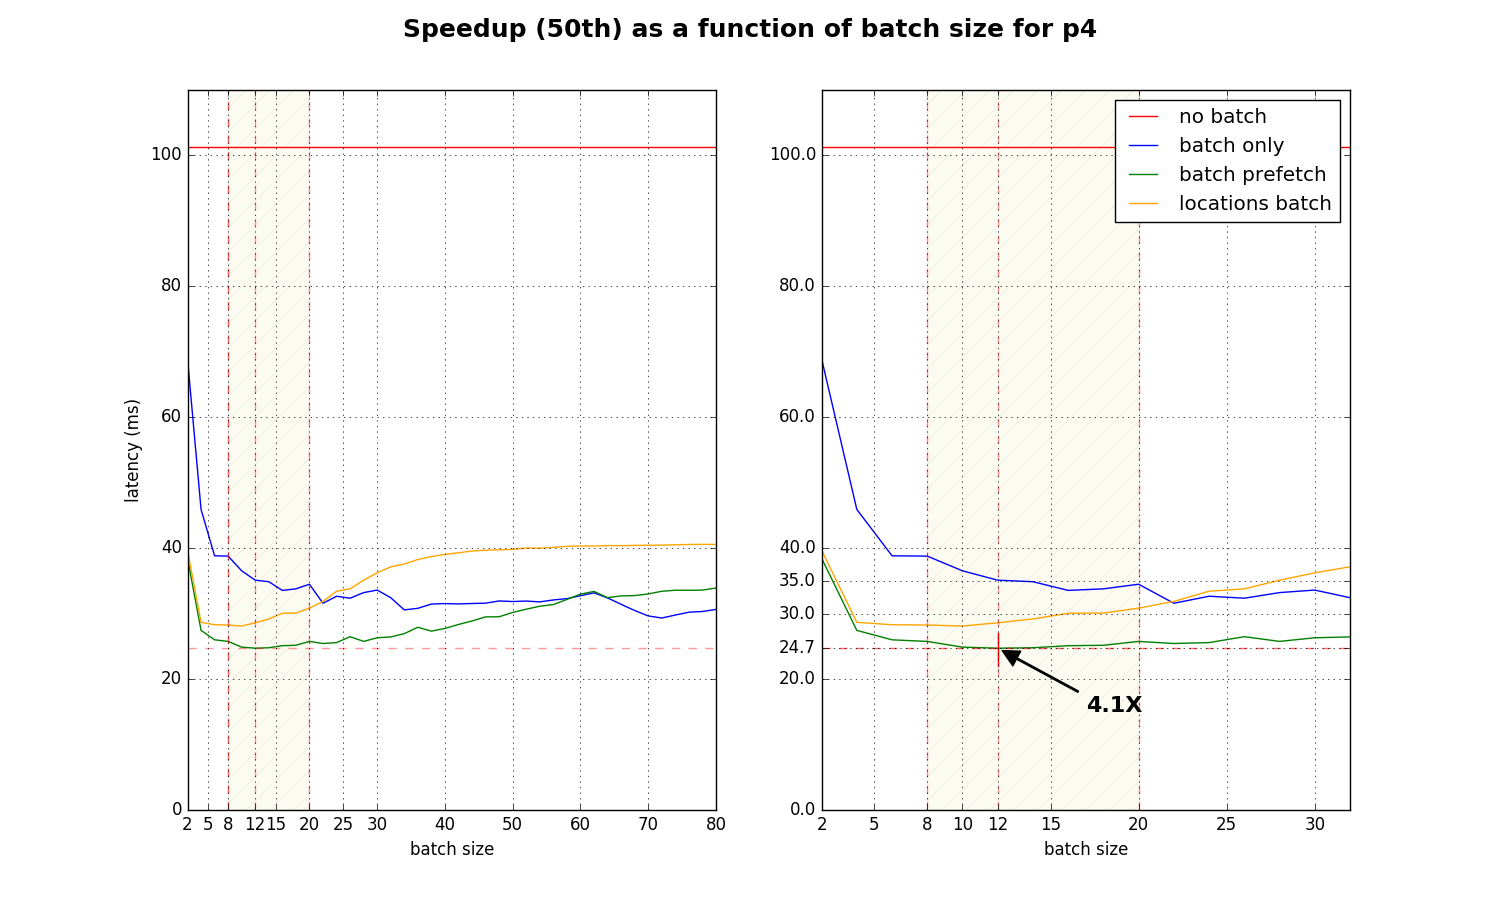
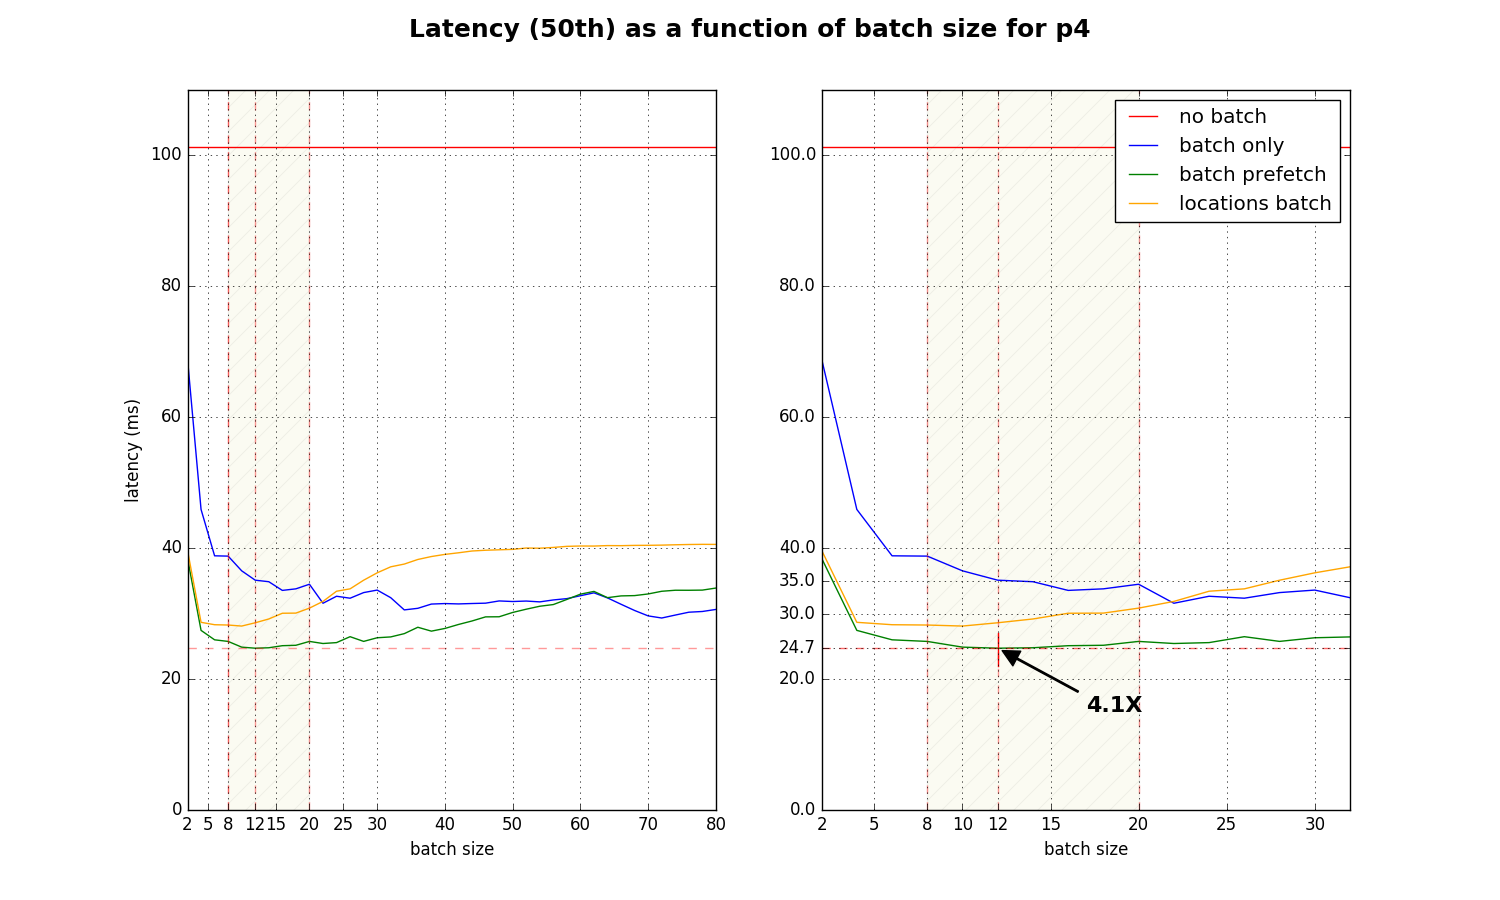
More updates to the plots

Changed region(s): [[0.276, 0.0, 0.736, 0.0622]]

diff --git a/analyze-results.py b/analyze-results.py
@@ -186,7 +186,7 @@ def plot_speedups_for_p4():
     annotate('4.1X', xy=(12,24.719),xytext=(17,15), fontsize=16, weight='bold',
              arrowprops=dict(facecolor='black', shrink=0.05, width=1))
     axs[1].legend()
-    fig.suptitle("Speedup (50th) as a function of batch size for p4", fontsize=18, weight='bold')
+    fig.suptitle("Latency (50th) as a function of batch size for p4", fontsize=18, weight='bold')
     fig.savefig('speedups-for-p4.png')
     
 
@@ -253,7 +253,7 @@ def plot_speedups_for_p4_with_deviations():
         #ax.legend()
         ax.set_xlim(2,xlim)
         ax.set_title("Speedup variance, centered on 50th percentile")
-    fig.suptitle("Speedup variance\n(p4 payload - batch prefetch)", fontsize=18, weight='bold')
+    fig.suptitle("Speedup with variance\n(p4 payload - batch prefetch)", fontsize=18, weight='bold')
     fig.savefig('speedups-for-p4-with-deviations.png')
 
 plot_results_side_by_side()
